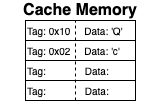
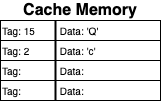
Cache hit draft

Changed region(s): [[0.0, 0.1765, 0.7764, 1.0], [0.8385, 0.1765, 1.0, 1.0]]

diff --git a/cache_lesson.md b/cache_lesson.md
@@ -68,11 +68,17 @@ Throughout this lesson you will be working with a small memory hierarchy that ou
 - Cache entries hold data and memory location
 - For a memory request, the processor will check the cache first and will either result in a cache hit or a cache miss.
 
-Cache memory can hold more data than the processor but less than main memory. It's increased size means data retrieval is slower than within the processor but is faster than from main memory. Cache memory can been seen as a compromise between the processor and main memory, yet this isn't what helps bridge the performance gap. The structure and the behavior of cache is what leads to increased data retrieval.
+Cache memory can hold more data than the processor but less than main memory. Its size means data retrieval is slower than within the processor but is faster than from main memory. Cache memory performance and size is a compromise between the processor and main memory. But this isn't what helps bridge the performance gap. The structure and the behavior of cache is what leads to increased data retrieval.
 
-Cache is made up of _blocks_ that are fixed in size. Each block is used to store a copy of data from main memory. For example, a cache that has a total storage capacity of 32kB where each block hold 64 bytes will have a total of 32,768/64 blocks, or 512 block.
+Cache is made up of _blocks_ equal in size. Each block stores a copy of data from main memory. Unlike memory, cache blocks are not assigned addresses. When a piece of data is stored in cache, it is paired with a _tag_ which is equal to the address of the data in main memory. This simplifies retrieval since the processor uses the same address when accessing data from cache and main memory.
 
-Unlike memory, cache blocks are not assigned unique addresses. When a piece of data is stored in cache, it is paired with the address of the data in main memory. The address stored in a cache block is dependent on the data and where it came from in memory. This simplifies retrieval since the processor uses the same address when accessing data from cache or main memory.
+![A cache with 2 blocks filled](cache.png)
+
+The diagram above represents a small cache with 4 blocks. The cache has two elements of data from main memory: the character `'Q'` with a tag `15` and the character `'c'` with a tag `2`. Remember the tag is the main memory address of the data. When the processor requests data from a main memory address it will first search for that address in the cache. If any of the blocks has a tag with the requested address a _cache hit_ occurs.
+
+![A cache hit](cache_hit_gif.png)
+
+In the animation there is a processor, main memory with a cache in the middle. The processor requests the data located at main memory address `2`. The address is found inside the cache so a cache hit occurs. The character `'c'` will be returned from cache and the main memory is never accessed. The goal of the memory hierarchy is to get as many cache hits when requesting data from memory.
 
 ### Checkpoints
 **CP1**
@@ -97,14 +103,12 @@ Run the code. Out put will be the same since `Cache()` is just a pass through fo
 
 **Hint**
 
-## Exercise 4: Cache Miss
+
+## Exercise 4: Cache Hit
 
 ### Narrative
-- When the data isn't in the cache it is a cache miss.
-- A new entry is created and the data and memory address are collected
-- Hint at replacement policy by saying for now the cache entries will be replaced using either FIFO or random.
-
-With cache in the memory hierarchy, each data request by the processor will first go to the cache. 
+- A cache hit is what increases bridges the performance gap.
+- Cache entries are checked for needed data, if found that's a cache hit.
 
 ### Checkpoints
 **CP1**
@@ -123,13 +127,25 @@ With cache in the memory hierarchy, each data request by the processor will firs
 
 **Hint**
 
-## Exercise 5: Cache Hit
+
+## Exercise 5: Cache Miss
 
 ### Narrative
-- A cache hit is what increases bridges the performance gap.
-- Cache entries are checked for needed data, if found that's a cache hit.
-  
-When the processor goes to retrieve data from a specific address in main memory, it first looks for the address in cache. If found, it retrieves the data paired with the address.
+- When the data isn't in the cache it is a cache miss.
+- A new entry is created and the data and memory address are collected
+- Hint at replacement policy by saying for now the cache entries will be replaced using either FIFO or random.
+
+When the processor requests data from a specific address in main memory, it first looks for the address in cache. If the address and associated data are not in the cache it is called a _cache miss_. 
+
+When a cache miss occurs the data request will continue to main memory and the memory address and retrieved data will get placed in cache. The below figure shows a cache miss in action. 
+
+
+To summarize:
+1. 
+
+
+
+
 
 ### Checkpoints
 **CP1**
